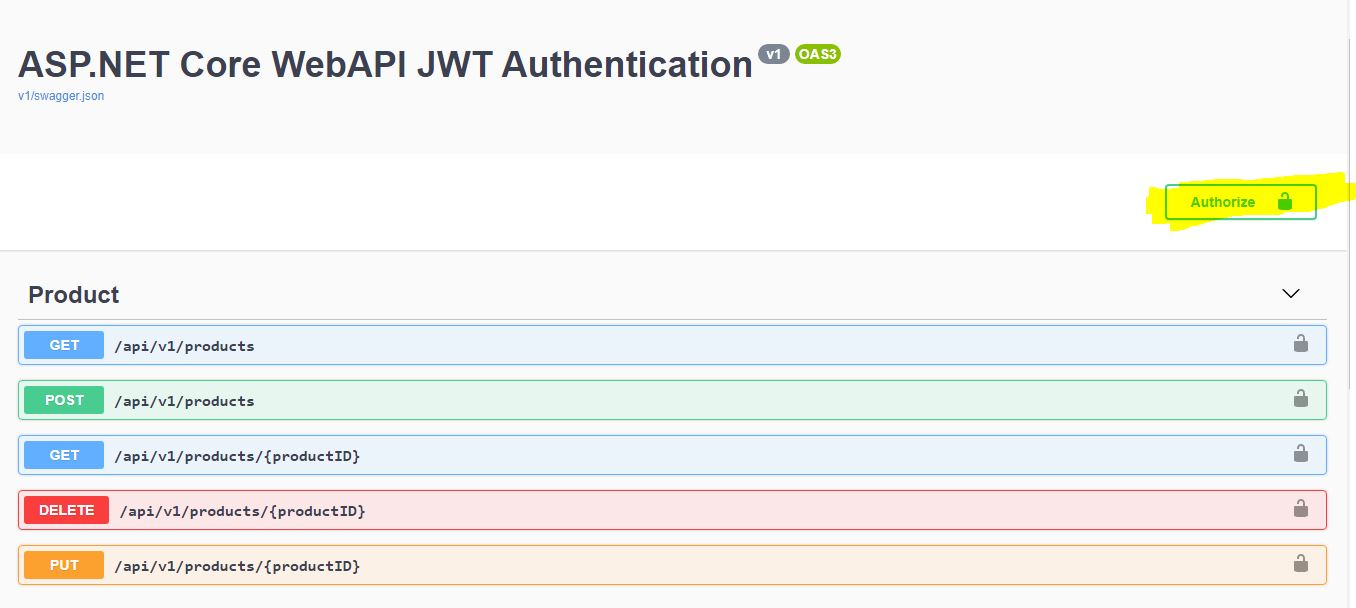
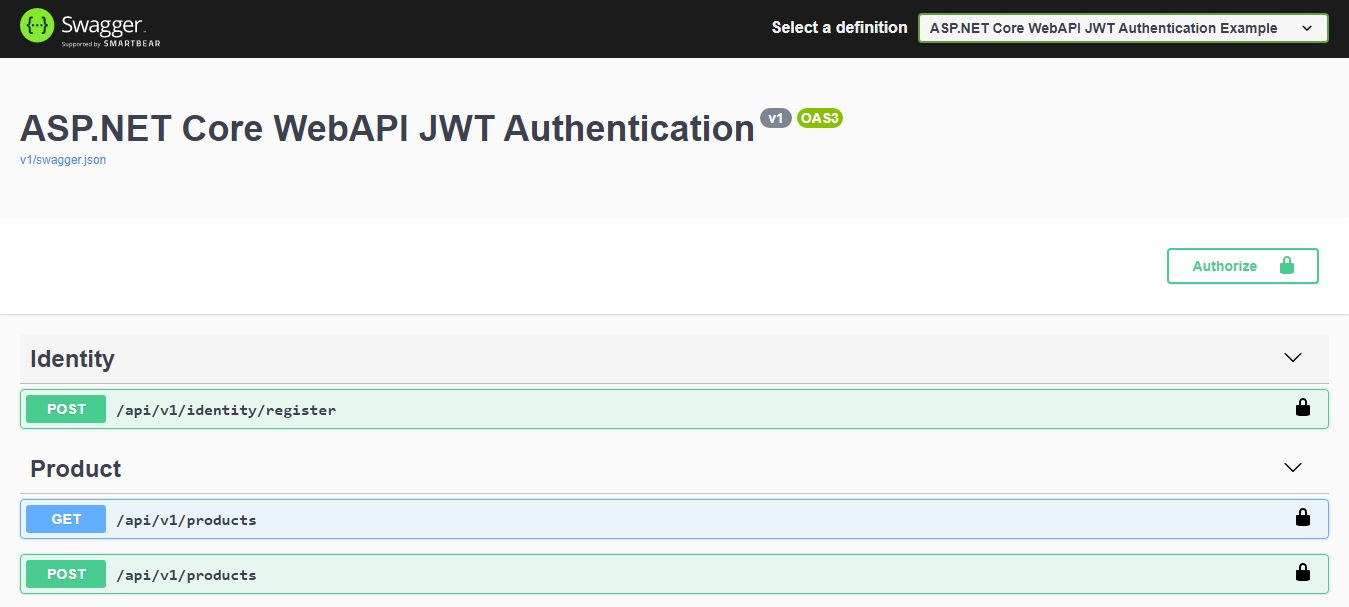
Authorization Applied to Products Entity

Changed region(s): [[0.0, 0.4745, 0.9963, 0.9786], [0.0, 0.0, 1.0, 0.2965], [0.8406, 0.2669, 1.0, 0.4745]]

diff --git a/Services/IdentityService.cs b/Services/IdentityService.cs
@@ -1,0 +1,80 @@
+using System;
+using System.Collections.Generic;
+using System.Linq;
+using System.Threading.Tasks;
+using Microsoft.AspNetCore.Identity;
+using System.IdentityModel.Tokens.Jwt;
+
+using DotNetCoreJWTAuth.Config;
+using DotNetCoreJWTAuth.Models;
+using DotNetCoreJWTAuth.Models.v1.Requests;
+using System.Text;
+using Microsoft.IdentityModel.Tokens;
+using System.Security.Claims;
+
+namespace DotNetCoreJWTAuth.Services
+{
+    public class IdentityService : IIdentityService
+    {
+        private readonly JwtSettings _jwtSettings;
+        public readonly UserManager<IdentityUser> _userManager;
+
+        public IdentityService(UserManager<IdentityUser> userManager, JwtSettings jwtSettings)
+        {
+            _userManager = userManager;
+            _jwtSettings = jwtSettings;
+        }
+
+        public async Task<AuthenticationResult> RegisterAsync(UserRegistrationRequest request)
+        {
+            var existingUser = await _userManager.FindByNameAsync(request.Username);
+
+            if (existingUser != null)
+            {
+                return new AuthenticationResult
+                {
+                    Errors = new[] { "Username already exists!"}
+                };
+            }
+
+            var newUsr = new IdentityUser
+            {
+                UserName = request.Username,
+                Email = request.Email
+            };
+
+            var createdUser = await _userManager.CreateAsync(newUsr, request.Password);
+
+            if (!createdUser.Succeeded)
+            {
+                return new AuthenticationResult
+                {
+                    Errors = createdUser.Errors.Select(x => x.Description)
+                };
+            }
+
+            var tokenHandler = new JwtSecurityTokenHandler();
+            var key = Encoding.ASCII.GetBytes(_jwtSettings.Secret);
+            var tokenDescriptor = new SecurityTokenDescriptor
+            {
+                Subject = new ClaimsIdentity(new[]
+                {
+                    new Claim(JwtRegisteredClaimNames.Sub, newUsr.UserName),
+                    new Claim(JwtRegisteredClaimNames.Jti, Guid.NewGuid().ToString()),
+                    new Claim(JwtRegisteredClaimNames.Email, newUsr.Email),
+                    new Claim("id", newUsr.Id),
+                }),
+                Expires = DateTime.UtcNow.AddHours(3),
+                SigningCredentials = new SigningCredentials(new SymmetricSecurityKey(key), algorithm: SecurityAlgorithms.HmacSha256Signature)
+            };
+
+            var token = tokenHandler.CreateToken(tokenDescriptor);
+
+            return new AuthenticationResult
+            {
+                Success = true,
+                Token = tokenHandler.WriteToken(token)
+            };
+        }
+    }
+}

diff --git a/Controllers/IdentityController.cs b/Controllers/IdentityController.cs
@@ -1,0 +1,39 @@
+using System;
+using System.Collections.Generic;
+using System.Linq;
+using System.Threading.Tasks;
+using Microsoft.AspNetCore.Mvc;
+using DotNetCoreJWTAuth.Services;
+using DotNetCoreJWTAuth.Config.v1;
+using DotNetCoreJWTAuth.Models.v1.Requests;
+using DotNetCoreJWTAuth.Models.v1.Responses;
+
+namespace DotNetCoreJWTAuth.Controllers
+{
+    public class IdentityController : Controller
+    {
+        private readonly IIdentityService _identityService;
+        public IdentityController(IIdentityService identityService)
+        {
+            _identityService = identityService;
+        }
+
+        [HttpPost(ApiRoutes.Identity.Register)]
+        public async Task<IActionResult> Register([FromBody] UserRegistrationRequest request)
+        {
+            var authResponse = await _identityService.RegisterAsync(request);
+
+            if(!authResponse.Success)
+            {
+                return BadRequest(new AuthFailedResponse
+                {
+                    Errors = authResponse.Errors
+                });
+            }
+            return Ok(new AuthSuccessResponse 
+            {
+                Token = authResponse.Token
+            });
+        }
+    }
+}

diff --git a/ServiceRegistration/MvcRegistrar.cs b/ServiceRegistration/MvcRegistrar.cs
@@ -9,6 +9,7 @@ using DotNetCoreJWTAuth.Config;
 using Microsoft.IdentityModel.Tokens;
 using Microsoft.AspNetCore.Authentication.JwtBearer;
 using System.Text;
+using DotNetCoreJWTAuth.Services;
 
 namespace DotNetCoreJWTAuth.ServiceRegistration
 {
@@ -21,6 +22,8 @@ namespace DotNetCoreJWTAuth.ServiceRegistration
             configuration.Bind(key: nameof(JwtSettings), jwtSettings);
 
             services.AddSingleton(jwtSettings);
+
+            services.AddScoped<IIdentityService, IdentityService>();
 
             services.AddMvc().SetCompatibilityVersion(Microsoft.AspNetCore.Mvc.CompatibilityVersion.Version_3_0);
 

diff --git a/ServiceRegistration/DbRegistrar.cs b/ServiceRegistration/DbRegistrar.cs
@@ -16,8 +16,8 @@ namespace DotNetCoreJWTAuth.ServiceRegistration
             services.AddDefaultIdentity<IdentityUser>(options => options.SignIn.RequireConfirmedAccount = true)
                 .AddEntityFrameworkStores<MSSQLDBContext>();
 
-            //services.AddScoped<IProductService, ProductService>();
-            services.AddSingleton<IProductService, CosmosProductService>();
+            services.AddScoped<IProductService, ProductService>();
+            //services.AddSingleton<IProductService, CosmosProductService>();
         }
     }
 }

diff --git a/Controllers/ProductController.cs b/Controllers/ProductController.cs
@@ -8,9 +8,12 @@ using DotNetCoreJWTAuth.Models.v1.Requests;
 using DotNetCoreJWTAuth.Models.v1.Responses;
 using DotNetCoreJWTAuth.Services;
 using Microsoft.AspNetCore.Mvc;
+using Microsoft.AspNetCore.Authorization;
+using Microsoft.AspNetCore.Authentication.JwtBearer;
 
 namespace DotNetCoreJWTAuth.Controllers
 {
+    [Authorize(AuthenticationSchemes = JwtBearerDefaults.AuthenticationScheme)]
     public class ProductController : Controller
     {
         private readonly  IProductService _productService;

diff --git a/Services/IIdentityService.cs b/Services/IIdentityService.cs
@@ -1,0 +1,14 @@
+using System;
+using System.Collections.Generic;
+using System.Linq;
+using System.Threading.Tasks;
+using DotNetCoreJWTAuth.Models;
+using DotNetCoreJWTAuth.Models.v1.Requests;
+
+namespace DotNetCoreJWTAuth.Services
+{
+    public interface IIdentityService
+    {
+        public Task<AuthenticationResult> RegisterAsync(UserRegistrationRequest request);
+    }
+}

diff --git a/Models/v1/Requests/UserRegistrationRequest.cs b/Models/v1/Requests/UserRegistrationRequest.cs
@@ -1,0 +1,14 @@
+using System;
+using System.Collections.Generic;
+using System.Linq;
+using System.Threading.Tasks;
+
+namespace DotNetCoreJWTAuth.Models.v1.Requests
+{
+    public class UserRegistrationRequest
+    {
+        public string Username { get; set; }
+        public string Email { get; set; }
+        public string Password { get; set; }
+    }
+}

diff --git a/Models/AuthenticationResult.cs b/Models/AuthenticationResult.cs
@@ -1,0 +1,14 @@
+using System;
+using System.Collections.Generic;
+using System.Linq;
+using System.Threading.Tasks;
+
+namespace DotNetCoreJWTAuth.Models
+{
+    public class AuthenticationResult
+    {
+        public string Token { set; get; }
+        public bool Success { set; get; }
+        public IEnumerable<string> Errors { set; get; }
+    }
+}

diff --git a/Config/v1/ApiRoutes.cs b/Config/v1/ApiRoutes.cs
@@ -23,5 +23,12 @@ namespace DotNetCoreJWTAuth.Config.v1
 
             public const string Delete = Base + "/products/{productID}";
         }
+
+        public static class Identity
+        {
+            public const string Login = Base + "/identity/login";
+
+            public const string Register = Base + "/identity/register";
+        }
     }
 }

diff --git a/Models/v1/Responses/AuthFailedResponse.cs b/Models/v1/Responses/AuthFailedResponse.cs
@@ -1,0 +1,12 @@
+using System;
+using System.Collections.Generic;
+using System.Linq;
+using System.Threading.Tasks;
+
+namespace DotNetCoreJWTAuth.Models.v1.Responses
+{
+    public class AuthFailedResponse
+    {
+        public IEnumerable<string> Errors { set; get; }
+    }
+}

diff --git a/Models/v1/Responses/AuthSuccessResponse.cs b/Models/v1/Responses/AuthSuccessResponse.cs
@@ -1,0 +1,12 @@
+using System;
+using System.Collections.Generic;
+using System.Linq;
+using System.Threading.Tasks;
+
+namespace DotNetCoreJWTAuth.Models.v1.Responses
+{
+    public class AuthSuccessResponse
+    {
+        public string Token { set; get; }
+    }
+}

diff --git a/Startup.cs b/Startup.cs
@@ -49,6 +49,8 @@ namespace DotNetCoreJWTAuth
 
             app.UseAuthentication();
 
+            app.UseAuthorization();
+
             app.UseEndpoints(endpoints =>
             {
                 //endpoints.MapControllers();
